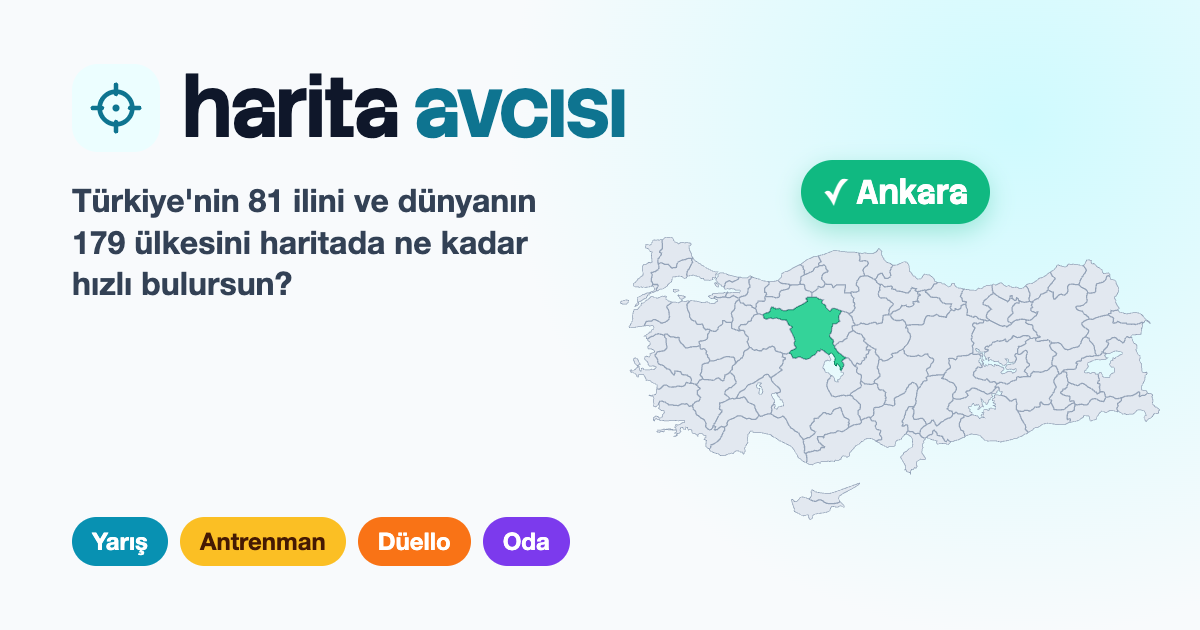
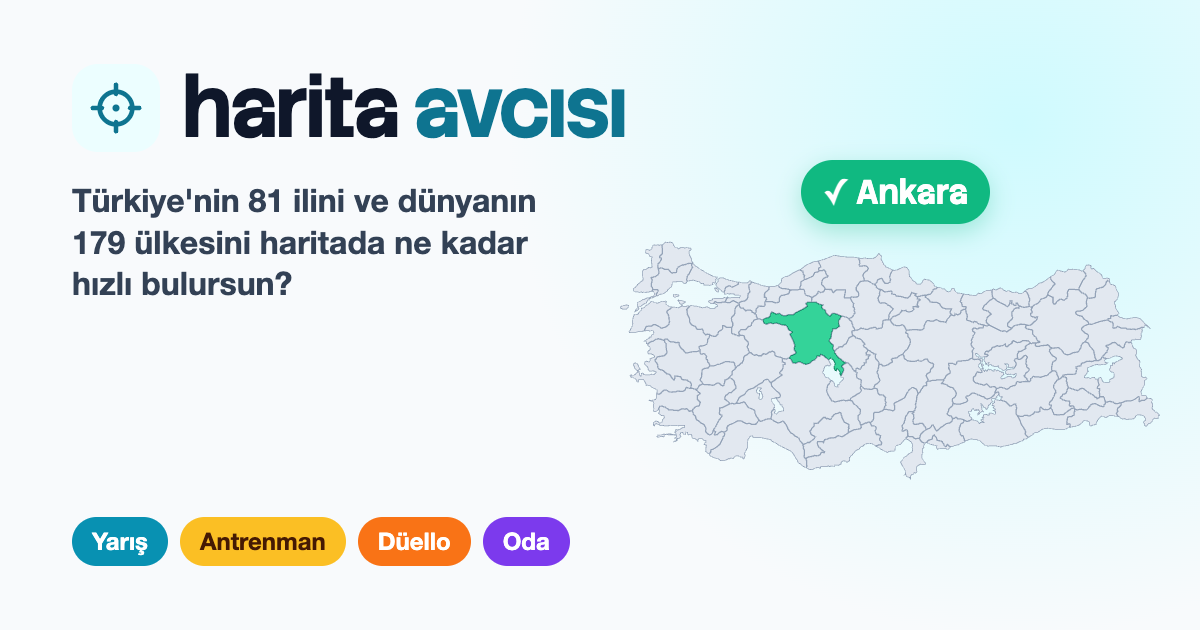
Sonuç ekranı sadeleşti, Kıbrıs haritadan çıktı, yanlış listesi düzgün sıralanıyor
- En çok yanlış yapılanlar yanlış oranının Wilson alt sınırına göre sıralanır; 1/1 gibi az sorulan yerler öne geçmez.
- Satırda "X sanılıyor" kısa açıklaması; dar ekrana sığar.
- Kıbrıs Türkiye haritasından çıkarıldı (kuzeyi "00" koduyla tıklanabiliyordu); görünüm kutusu daraltıldı.
- Sonuç özeti: skorun sağında seri ve süre, "Tekrar oyna" ile paylaş yan yana.
- Sıralama sekmeleri tek satırda; dar ekranda süre çubuğu puanın üstüne taşmaz.

Changed region(s): [[0.5242, 0.3921, 0.9558, 0.754], [0.6783, 0.7841, 0.7092, 0.8143]]

diff --git a/app/components/ResultScreen.tsx b/app/components/ResultScreen.tsx
@@ -57,7 +57,9 @@ const RESULT_CARD = "rounded-3xl border-2 border-slate-200 bg-white p-5 short:p-
  */
 const SUMMARY_CARD = `${RESULT_CARD} flex flex-col gap-5 short:gap-3 md:min-h-0 md:overflow-y-auto`;
 /** Skor ve istatistik kutuları: alt alta; alçak ekranda yan yana. */
-const SCORE_ROW = "flex flex-col gap-5 short:flex-row short:items-center short:gap-3";
+const SCORE_ROW = "flex items-center gap-4";
+/** Skorun kendisi; sağındaki istatistiklere yer kalsın diye dar sütunda bir boy küçük. */
+const SCORE_NUMBER = "text-6xl short:text-5xl lg:text-7xl";
 const RESULT_EYEBROW = "text-xs font-semibold tracking-[0.2em] text-cyan-700 uppercase";
 
 /**
@@ -94,22 +96,12 @@ function ResultShell({
   );
 }
 
-/** `shortLabel`: alçak ekranda skorun yanındaki dar kutuya sığan kısa etiket. */
-function StatTile({ label, shortLabel, value, note }: { label: string; shortLabel?: string; value: string; note?: string | null }) {
+/** Skorun sağında alt alta duran küçük satır: solda ne olduğu, sağda değeri. */
+function StatTile({ label, value }: { label: string; value: string }) {
   return (
-    <div className="rounded-2xl bg-slate-50 px-4 py-3 short:px-2.5 short:py-1.5">
-      <dt className="text-xs text-slate-500">
-        {shortLabel ? (
-          <>
-            <span className="short:hidden">{label}</span>
-            <span className="hidden short:inline">{shortLabel}</span>
-          </>
-        ) : (
-          label
-        )}
-      </dt>
-      <dd className="mt-0.5 text-2xl font-bold tabular-nums text-slate-900 short:text-lg">{value}</dd>
-      {note && <dd className="mt-0.5 text-xs font-semibold tabular-nums text-cyan-700">{note}</dd>}
+    <div className="flex items-baseline justify-between gap-2 rounded-xl bg-slate-50 px-3 py-1.5 lg:py-2">
+      <dt className="truncate text-xs text-slate-500">{label}</dt>
+      <dd className="text-lg font-bold tabular-nums text-slate-900 lg:text-xl">{value}</dd>
     </div>
   );
 }
@@ -119,14 +111,18 @@ function SummaryHeading({ eyebrow, title }: { eyebrow: string; title: string }) 
   return (
     <div>
       <p className={RESULT_EYEBROW}>{eyebrow}</p>
-      <h1 className="mt-2 font-display text-4xl leading-none font-bold text-slate-900 short:mt-1 short:text-2xl">{title}</h1>
+      <h1 className="mt-1 font-display text-3xl leading-none font-bold text-slate-900 short:text-2xl lg:text-4xl">{title}</h1>
     </div>
   );
 }
 
-function PrimaryButton({ label, onClick }: { label: string; onClick: () => void }) {
+/** Paylaş tuşunun yanında yarım genişlikte duran asıl tuş: yazısı ve iç boşluğu daha küçük. */
+const COMPACT_PRIMARY_CLASS =
+  "flex w-full items-center justify-center gap-1.5 rounded-2xl bg-cyan-600 px-3 py-3 text-base font-bold whitespace-nowrap text-white shadow-lg shadow-cyan-600/20 transition-all duration-200 hover:gap-2.5 hover:bg-cyan-500 active:scale-[0.98] focus-visible:ring-4 focus-visible:ring-cyan-200 focus-visible:outline-none short:py-2.5";
+
+function PrimaryButton({ label, onClick, isCompact = false }: { label: string; onClick: () => void; isCompact?: boolean }) {
   return (
-    <button className={PRIMARY_BUTTON_CLASS} onClick={onClick} type="button">
+    <button className={isCompact ? COMPACT_PRIMARY_CLASS : PRIMARY_BUTTON_CLASS} onClick={onClick} type="button">
       {label}
       <svg aria-hidden="true" className="h-5 w-5 transition-transform duration-200" fill="none" stroke="currentColor" strokeWidth={2.5} viewBox="0 0 24 24">
         <path d="M5 12h14M13 6l6 6-6 6" strokeLinecap="round" strokeLinejoin="round" />
@@ -232,22 +228,22 @@ export function ResultScreen({
           <aside className={SUMMARY_CARD}>
             <SummaryHeading eyebrow={choiceLabel(choice)} title="Tur tamamlandı" />
 
-            {/* Alçak ekranda skor ve istatistikler yan yana durur; tuşlar kaydırmadan görünsün. */}
+            {/* Skor solda, en uzun seri ve süre sağında alt alta. */}
             <div className={SCORE_ROW}>
-              <div className="short:shrink-0">
+              <div className="shrink-0">
                 <p className="font-display leading-none font-bold text-slate-900 tabular-nums">
-                  <span className="text-7xl short:text-5xl">{score}</span>
+                  <span className={SCORE_NUMBER}>{score}</span>
                   <span className="text-3xl text-slate-400 short:text-2xl">/{questionCount}</span>
                 </p>
                 {personalBest && (
-                  <p className="mt-2 text-sm font-semibold text-cyan-700 tabular-nums short:mt-1 short:text-xs">
+                  <p className="mt-1.5 text-xs font-semibold whitespace-nowrap text-cyan-700 tabular-nums lg:text-sm">
                     En iyin {personalBest.score}/{questionCount} · {formatTime(Math.round(personalBest.duration_ms / 1000))}
                   </p>
                 )}
               </div>
 
-              <dl className="grid grid-cols-2 gap-3 short:flex-1 short:gap-2">
-                <StatTile label="En uzun seri" shortLabel="Seri" value={String(bestStreak)} />
+              <dl className="flex min-w-0 flex-1 flex-col gap-1.5">
+                <StatTile label="En uzun seri" value={String(bestStreak)} />
                 <StatTile label="Süre" value={duration} />
               </dl>
             </div>
@@ -257,8 +253,11 @@ export function ResultScreen({
             {/* Yeni oyun: en sık yapılan iş aynı turu tekrar oynamak; başka tur, seçeneklerin hepsinin durduğu
                 ayar ekranında seçilir. */}
             <div className="flex flex-col gap-3 pt-2 short:pt-0 lg:mt-auto">
-              <PrimaryButton label={`Tekrar oyna · ${BOARDS.find((board) => board.id === playedBoardId)?.label ?? ""}`} onClick={() => onPlay(choice)} />
-              <ShareScoreButton text={shareText} />
+              {/* Aynı turu tekrar oynamak ve skoru paylaşmak yan yana; ikisi de tur biter bitmez yapılan işler. */}
+              <div className="grid grid-cols-2 gap-2">
+                <PrimaryButton isCompact label="Tekrar oyna" onClick={() => onPlay(choice)} />
+                <ShareScoreButton isCompact text={shareText} />
+              </div>
               <ResultLinks chooseLabel="Başka tur seç" onChooseAnother={onChooseAnother} onHome={onHome} />
             </div>
           </aside>
@@ -333,18 +332,16 @@ function PracticeResult({
             <SummaryHeading eyebrow={choiceLabel(choice)} title="Antrenman bitti" />
 
             <div className={SCORE_ROW}>
-              <div className="short:shrink-0">
+              <div className="shrink-0">
                 <p className="font-display leading-none font-bold text-slate-900 tabular-nums">
-                  <span className="text-7xl short:text-5xl">{score}</span>
+                  <span className={SCORE_NUMBER}>{score}</span>
                   <span className="text-3xl text-slate-400 short:text-2xl">/{answeredCount}</span>
                 </p>
-                {/* Alçak ekranda gizli: alttaki yarış daveti aynı şeyi söylüyor. */}
-                <p className="mt-2 text-sm text-slate-500 short:hidden">Antrenman sonuçları sıralamaya kaydedilmez.</p>
               </div>
 
-              <dl className="grid grid-cols-3 gap-3 short:flex-1 short:gap-2">
+              <dl className="flex min-w-0 flex-1 flex-col gap-1.5">
                 <StatTile label="Başarı" value={`%${accuracy}`} />
-                <StatTile label="En uzun seri" shortLabel="Seri" value={String(bestStreak)} />
+                <StatTile label="En uzun seri" value={String(bestStreak)} />
                 <StatTile label="Süre" value={formatTime(Math.round(durationMs / 1000))} />
               </dl>
             </div>

diff --git a/app/components/Leaderboard.tsx b/app/components/Leaderboard.tsx
@@ -52,12 +52,12 @@ function LeaderboardRow({ entry, rank, isCurrentPlayer }: { entry: LeaderboardEn
   const isTop = rank <= 3;
 
   return (
-    <li className={`flex items-center gap-3 rounded-xl px-3 py-2 text-sm ${isCurrentPlayer ? "bg-cyan-50" : "bg-slate-50"}`}>
+    <li className={`flex items-center gap-2 rounded-xl px-3 py-2 text-sm sm:gap-3 ${isCurrentPlayer ? "bg-cyan-50" : "bg-slate-50"}`}>
       {/*
         İsim ve çubuk, isim sütununun taban genişliğinden artan alanı 1'e 9 paylaşır: çubuk her satırda
         aynı genişlikte ve aynı hizadan başlar, isme de o artan alanın onda biri kadar ek yer kalır.
       */}
-      <span className="flex min-w-0 shrink grow basis-40 items-center gap-3 sm:basis-52">
+      <span className="flex min-w-0 shrink grow basis-40 items-center gap-2 sm:basis-52 sm:gap-3">
         <span
           className={`flex h-7 w-7 shrink-0 items-center justify-center rounded-full text-xs font-bold tabular-nums ${isTop ? MEDAL_STYLES[rank] : "text-slate-400"}`}
         >
@@ -83,7 +83,8 @@ function LeaderboardRow({ entry, rank, isCurrentPlayer }: { entry: LeaderboardEn
           <span className="shrink-0 rounded-full bg-cyan-600 px-2 py-0.5 text-[10px] font-bold tracking-wide text-white uppercase">Sen</span>
         )}
       </span>
-      <span className="min-w-0 shrink grow-[9] basis-0" title="Süre (0-120 sn)">
+      {/* Çubuğun içindeki süre yazısı kadar yer her zaman ayrılır; dar ekranda isim kısalır, çubuk puanın üstüne taşmaz. */}
+      <span className="min-w-[3.25rem] shrink grow-[9] basis-0" title="Süre (0-120 sn)">
         <DurationBar durationMs={entry.duration_ms} isCurrentPlayer={isCurrentPlayer} />
       </span>
       <span className="w-16 shrink-0 text-right font-bold tabular-nums text-slate-900">{entry.score} puan</span>
@@ -107,23 +108,22 @@ export function Leaderboard({
 
   return (
     <div>
-      <div className={`flex flex-wrap items-center gap-3 ${showTitle ? "justify-between" : "justify-center"}`}>
-        {showTitle && <p className="text-xs font-semibold tracking-[0.2em] text-cyan-700 uppercase">Sıralama</p>}
-        {/* Dar kartlarda beş sekme sığmazsa alt satıra geçer; köşeler bu yüzden tam yuvarlak değil. */}
-        <div className="flex flex-wrap justify-center gap-1 rounded-2xl bg-slate-100 p-1" role="tablist">
-          {BOARDS.map((board) => (
-            <button
-              aria-selected={boardId === board.id}
-              className={`rounded-full px-3 py-1.5 text-sm font-bold transition sm:px-4 ${boardId === board.id ? "bg-white text-cyan-700 shadow-sm" : "text-slate-500 hover:text-cyan-700"}`}
-              key={board.id}
-              onClick={() => onBoardChange(board.id)}
-              role="tab"
-              type="button"
-            >
-              {board.label}
-            </button>
-          ))}
-        </div>
+      {showTitle && <p className="text-xs font-semibold tracking-[0.2em] text-cyan-700 uppercase">Sıralama</p>}
+      {/* Beş sekme tek satırda: başlık ayrı satırda durur, sekmeler kartın tam genişliğini yazılarının boyuna göre paylaşır;
+          dikey telefonda yazı ve iç boşluk küçülür. */}
+      <div className={`flex gap-0.5 rounded-full bg-slate-100 p-1 ${showTitle ? "mt-3" : ""}`} role="tablist">
+        {BOARDS.map((board) => (
+          <button
+            aria-selected={boardId === board.id}
+            className={`flex-auto rounded-full px-1.5 py-1.5 text-[11px] font-bold whitespace-nowrap transition sm:px-3 sm:text-sm ${boardId === board.id ? "bg-white text-cyan-700 shadow-sm" : "text-slate-500 hover:text-cyan-700"}`}
+            key={board.id}
+            onClick={() => onBoardChange(board.id)}
+            role="tab"
+            type="button"
+          >
+            {board.label}
+          </button>
+        ))}
       </div>
 
       <div className={`overflow-y-auto pr-1 ${tall ? "mt-4 max-h-[28rem]" : "mt-3 max-h-[20rem]"}`}>

diff --git a/app/components/MostMissed.tsx b/app/components/MostMissed.tsx
@@ -28,7 +28,9 @@ export function MostMissed({ choice, stats, missedLocationIds, className = "", m
         En çok yanlış yapılanlar
         {modeLabel && <span className="rounded-full bg-cyan-50 px-2.5 py-0.5 tracking-normal normal-case">{modeLabel}</span>}
       </p>
-      <p className="mt-1.5 text-sm text-slate-500">Tüm oyuncuların yarış turlarından, yanlış oranına göre (yanlış / sorulma).</p>
+      <p className="mt-1.5 text-sm text-slate-500">
+        Tüm oyuncuların yarış turlarından (yanlış / sorulma). Az sorulmuş yerler, oranları yüksek olsa da geride kalır.
+      </p>
 
       {stats === undefined ? (
         <p className="py-10 text-center text-sm text-slate-500">Yükleniyor...</p>
@@ -37,9 +39,8 @@ export function MostMissed({ choice, stats, missedLocationIds, className = "", m
       ) : (
         <ol className="mt-4 space-y-1.5">
           {stats.map((stat, index) => (
-            // Tek satır: yer ve rozet solda, en çok karıştırıldığı yer ortada, oran sağda.
-            // Dar ekranda ortadaki bilgi kısalır, yerin adı ve oran kesilmez.
-            <li className="flex items-center gap-3 rounded-xl bg-slate-50 px-3 py-2.5 sm:px-4" key={stat.location_id}>
+            // Solda sıra ve yer, yerin altında en çok neyle karıştırıldığı; sağda oran. Telefonda da tek satıra sığar.
+            <li className="flex items-center gap-3 rounded-xl bg-slate-50 px-3 py-2 sm:px-4" key={stat.location_id}>
               <span className="w-5 shrink-0 text-sm font-bold text-slate-400 tabular-nums">{index + 1}</span>
               {showFlag && (
                 <Image
@@ -51,18 +52,19 @@ export function MostMissed({ choice, stats, missedLocationIds, className = "", m
                   width={27}
                 />
               )}
-              <span className="flex shrink-0 items-center gap-2 font-bold text-slate-900">
-                {showPlate && <span className="font-mono text-cyan-700 tabular-nums">{formatPlate(Number(stat.location_id))}</span>}
-                {locationName(mode, stat.location_id)}
-                {missedLocationIds.includes(stat.location_id) && (
-                  <span className="rounded-full bg-rose-100 px-2 py-0.5 text-[10px] font-bold text-rose-700">Sen de</span>
-                )}
-              </span>
-              <span className="min-w-0 flex-1 truncate text-right text-xs text-slate-500">
-                En çok karıştırılan: <span className="font-semibold text-slate-700">{locationName(mode, stat.most_confused_with)}</span>
-                {stat.confused_count > 1 && ` (${stat.confused_count} kez)`}
-              </span>
-              <span className="w-24 shrink-0 text-right tabular-nums">
+              <div className="min-w-0 flex-1">
+                <p className="flex min-w-0 items-center gap-2 font-bold text-slate-900">
+                  {showPlate && <span className="font-mono text-cyan-700 tabular-nums">{formatPlate(Number(stat.location_id))}</span>}
+                  <span className="truncate">{locationName(mode, stat.location_id)}</span>
+                  {missedLocationIds.includes(stat.location_id) && (
+                    <span className="shrink-0 rounded-full bg-rose-100 px-2 py-0.5 text-[10px] font-bold text-rose-700">Sen de</span>
+                  )}
+                </p>
+                <p className="truncate text-xs text-slate-500">
+                  <span className="font-semibold text-slate-700">{locationName(mode, stat.most_confused_with)}</span> sanılıyor
+                </p>
+              </div>
+              <span className="shrink-0 text-right tabular-nums">
                 <span className="text-base font-bold text-rose-600">%{Math.round(Number(stat.wrong_rate) * 100)}</span>
                 <span className="ml-1.5 text-xs text-slate-500">
                   {stat.wrong}/{stat.asked}

diff --git a/lib/hooks/useMostMissed.ts b/lib/hooks/useMostMissed.ts
@@ -13,8 +13,25 @@ type MostMissedOptions = {
   enabled: boolean;
 };
 
+/** Bir modda istatistiği olan yer sayısı en fazla haritadaki ülke sayısı kadar; hepsi tek istekte gelir. */
+const STATS_FETCH_LIMIT = 250;
+
 /**
- * Tüm oyuncuların yarış turlarında o sıralamada en çok yanlış cevapladığı yerler.
+ * Yanlış oranının güvenilir alt sınırı (Wilson, %95). Yalnızca orana göre sıralanınca bir kez sorulup bir kez yanlış
+ * bilinen yer (1/1, %100), yedi kez sorulup altısında yanlış bilinen yerin (6/7, %86) önüne geçiyordu; az sorulan yerin
+ * oranı tesadüf olabilir. Bu sınır az sorulan yeri geri iter: 1/1 → 0,21, 3/3 → 0,44, 6/7 → 0,49.
+ */
+function wilsonLowerBound(wrong: number, asked: number): number {
+  if (asked === 0) return 0;
+  const z = 1.96;
+  const rate = wrong / asked;
+  const zz = z * z;
+  return (rate + zz / (2 * asked) - z * Math.sqrt((rate * (1 - rate)) / asked + zz / (4 * asked * asked))) / (1 + zz / asked);
+}
+
+/**
+ * Tüm oyuncuların yarış turlarında o sıralamada en çok yanlış cevapladığı yerler. Sıralama tarayıcıda yapılır: modun
+ * bütün istatistikleri çekilir, yanlış oranının güvenilir alt sınırına göre dizilir.
  * `undefined`: yükleniyor, `null`: yüklenemedi.
  */
 export function useMostMissed({ choice, locationIds, roundId, enabled }: MostMissedOptions): LocationStat[] | null | undefined {
@@ -38,15 +55,16 @@ export function useMostMissed({ choice, locationIds, roundId, enabled }: MostMis
       .eq("variant", variant);
     if (locationIdsKey) query = query.in("location_id", locationIdsKey.split(","));
 
-    void Promise.resolve(
-      query
-        .order("wrong_rate", { ascending: false })
-        .order("wrong", { ascending: false })
-        .order("asked", { ascending: false })
-        .limit(MOST_MISSED_LIMIT),
-    ).then(
+    void Promise.resolve(query.limit(STATS_FETCH_LIMIT)).then(
       ({ data, error }) => {
-        if (isActive) setLoaded({ key, stats: error ? null : ((data ?? []) as LocationStat[]) });
+        if (!isActive) return;
+        if (error) return setLoaded({ key, stats: null });
+        const ranked = ((data ?? []) as LocationStat[])
+          .map((stat) => ({ stat, score: wilsonLowerBound(stat.wrong, stat.asked) }))
+          .sort((a, b) => b.score - a.score || b.stat.wrong - a.stat.wrong)
+          .slice(0, MOST_MISSED_LIMIT)
+          .map(({ stat }) => stat);
+        setLoaded({ key, stats: ranked });
       },
       () => {
         if (isActive) setLoaded({ key, stats: null });

diff --git a/app/components/ShareScoreButton.tsx b/app/components/ShareScoreButton.tsx
@@ -8,9 +8,10 @@ const noSubscription = () => () => {};
 /**
  * Sonuç ekranındaki "Skorumu paylaş": telefonda sistemin paylaşma menüsünü açar (WhatsApp, LinkedIn, X...), menü
  * yoksa (masaüstü tarayıcı, Android uygulaması) metni ve site bağlantısını panoya kopyalar. Bağlantı paylaşıldığında
- * sitenin önizleme kartı (app/opengraph-image.png) görünür.
+ * sitenin önizleme kartı (app/opengraph-image.png) görünür. `isCompact`: başka bir tuşun yanında yarım genişlikte
+ * durur, yazı kısalır ("Paylaş" / "Kopyala").
  */
-export function ShareScoreButton({ text }: { text: string }) {
+export function ShareScoreButton({ text, isCompact = false }: { text: string; isCompact?: boolean }) {
   const [isCopied, setIsCopied] = useState(false);
   // Paylaşma menüsü tarayıcıya bağlı; sunucuda çizilen ilk halde yok sayılır, uyuşmazlık olmaz.
   const canShare = useSyncExternalStore(
@@ -37,14 +38,14 @@ export function ShareScoreButton({ text }: { text: string }) {
 
   return (
     <button
-      className="flex w-full items-center justify-center gap-2 rounded-2xl border-2 border-cyan-200 bg-white px-4 py-2.5 text-sm font-bold text-cyan-700 transition hover:border-cyan-400 hover:bg-cyan-50 focus-visible:ring-2 focus-visible:ring-cyan-300 focus-visible:outline-none short:py-2"
+      className="flex w-full items-center justify-center gap-2 rounded-2xl border-2 border-cyan-200 bg-white px-3 py-2.5 text-sm font-bold whitespace-nowrap text-cyan-700 transition hover:border-cyan-400 hover:bg-cyan-50 focus-visible:ring-2 focus-visible:ring-cyan-300 focus-visible:outline-none short:py-2"
       onClick={() => void share()}
       type="button"
     >
       <svg aria-hidden="true" className="h-4 w-4" fill="none" stroke="currentColor" strokeLinecap="round" strokeLinejoin="round" strokeWidth={2.2} viewBox="0 0 24 24">
         <path d="M4 12v7a1 1 0 0 0 1 1h14a1 1 0 0 0 1-1v-7M16 6l-4-4-4 4M12 2v13" />
       </svg>
-      {isCopied ? "✓ Panoya kopyalandı" : canShare ? "Skorumu paylaş" : "Skorumu kopyala"}
+      {isCopied ? (isCompact ? "✓ Kopyalandı" : "✓ Panoya kopyalandı") : canShare ? (isCompact ? "Paylaş" : "Skorumu paylaş") : isCompact ? "Kopyala" : "Skorumu kopyala"}
     </button>
   );
 }

diff --git a/app/globals.css b/app/globals.css
@@ -115,10 +115,9 @@ body {
   user-select: none;
 }
 
-/* Haritada olup oyunda karşılığı olmayan bölgeler; stil verilmezse SVG varsayılanıyla siyah dolar. */
-.map path[id^="_"],
-.map #guney-kibris path,
-.map #kuzey-kibris path {
+/* Haritada olup oyunda karşılığı olmayan bölgeler (dünya haritasında); stil verilmezse SVG varsayılanıyla siyah dolar.
+   Türkiye haritasında Kıbrıs vardı, hiç sorulmadığı için haritadan çıkarıldı. */
+.map path[id^="_"] {
   fill: #f1f5f9;
   stroke: #cbd5e1;
   stroke-width: 0.75;
@@ -463,9 +462,7 @@ body {
 
 .map-preview [data-country-code],
 .map-preview g[data-plakakodu] path,
-.map-preview path[id^="_"],
-.map-preview #guney-kibris path,
-.map-preview #kuzey-kibris path {
+.map-preview path[id^="_"] {
   fill: #e8edf3;
   stroke: #cbd5e1;
   stroke-width: 0.6;

diff --git a/docs/GELISTIRME.md b/docs/GELISTIRME.md
@@ -55,7 +55,10 @@ ekranını açar (antrenmanda **Tekrar antrenman** ve **Başka antrenman seç**)
 sütundur: solda özet ve tuşlar, sağda sıralama ve en çok yanlış yapılanlar.
 
 Tur bittiğinde o modda **en çok yanlış yapılan 5 yer** gösterilir: tüm oyuncuların yarış turlarındaki cevaplarından,
-yanlış oranına göre. Her yerin yanında en çok neyle karıştırıldığı yazar; oyuncunun o turda kendisinin de yanlış
+yanlış oranının güvenilir alt sınırına (Wilson, %95) göre. Yalnızca orana göre sıralanınca bir kez sorulup bir kez
+yanlış bilinen yer (1/1, %100), yedi kez sorulup altısında yanlış bilinen yerin (6/7) önüne geçiyordu; bu ölçü az
+sorulan yerleri geri iter. Sıralama tarayıcıda yapılır (`useMostMissed.ts`). Her yerin altında en çok neyle
+karıştırıldığı yazar ("Tunceli sanılıyor"); oyuncunun o turda kendisinin de yanlış
 yaptığı yerler işaretlenir. Türkiye'de İsim ile Plaka, dünyada Normal, Zor ve Bayrak ayrı değerlendirilir.
 Giriş ekranındaki Yarış kartında bulunan **Sıralamayı gör** bağlantısı sıralamayı tur oynamadan açar; giriş yapmamış ziyaretçi de görebilir. Antrenman sonuçları kaydedilmediği için o modda çıkmaz.
 Oyun sırasında da açılmaz, çünkü yarışta süre işlerken sıralamaya bakmak puan kaybettirir.
@@ -215,7 +218,7 @@ app/
     AuthPanel.tsx       Yarış öncesi giriş adımı (Google / misafir)
     GameTopBar.tsx      Oyun sırasındaki üst bar (soru, bayrak, puan, süre)
     GameMap.tsx         Tıklanabilir harita, yakınlaştırma tuşları
-    ResultScreen.tsx    Tam ekran sonuç: özet, tekrar oyna / başka tur seç / paylaş, en çok yanlış yapılanlar, sıralama; antrenman özeti
+    ResultScreen.tsx    Tam ekran sonuç: skor ve yanında seri / süre, tekrar oyna + paylaş, başka tur seç, en çok yanlış yapılanlar, sıralama; antrenman özeti
     Logo.tsx            Nişangah rozetli oyun adı (giriş ve sonuç ekranlarının başlığı)
     MostMissed.tsx      Sonuç ekranındaki "En çok yanlış yapılanlar" listesi
     Leaderboard.tsx     Sekmeli sıralama listesi
@@ -266,7 +269,8 @@ Tüm varlıklar projeyle birlikte sunulur; çalışma zamanında dış bir CDN'e
 | `flags/*.svg` | [lipis/flag-icons](https://github.com/lipis/flag-icons) 7.5.0 | MIT |
 | Başlık yazı tipi | [Stack Sans Notch](https://fonts.google.com/specimen/Stack+Sans+Notch), `next/font` ile derlemede gömülür | OFL 1.1 |
 
-Tıklanabilir alanlar Türkiye haritasında `data-plakakodu`, dünya haritasında ISO 3166-1 alpha-2 `id` değeri üzerinden eşleştirilir; bayrak dosyaları da aynı ISO koduyla adlandırılır. Kıta görünümleri `world.svg` koordinatlarıyla `world-countries.ts` içinde sabit tanımlıdır: bazı ülkelerin şekilleri denizaşırı topraklarını da içerdiği için kutudan türetilmez.
+Türkiye haritasında Kıbrıs vardı; hiç sorulmadığı (ve kuzeyi "00" koduyla tıklanabildiği) için haritadan çıkarıldı ve
+haritanın görünüm kutusu Türkiye'ye göre daraltıldı. Tıklanabilir alanlar Türkiye haritasında `data-plakakodu`, dünya haritasında ISO 3166-1 alpha-2 `id` değeri üzerinden eşleştirilir; bayrak dosyaları da aynı ISO koduyla adlandırılır. Kıta görünümleri `world.svg` koordinatlarıyla `world-countries.ts` içinde sabit tanımlıdır: bazı ülkelerin şekilleri denizaşırı topraklarını da içerdiği için kutudan türetilmez.
 
 ## Supabase ve oturum açma
 
